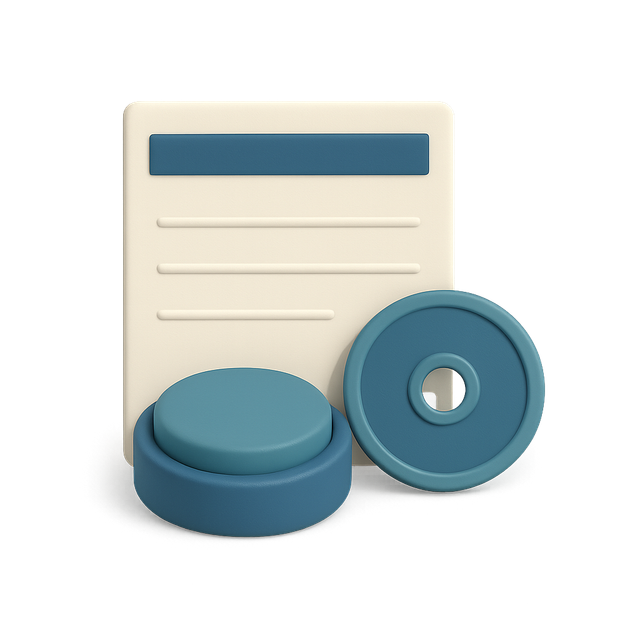
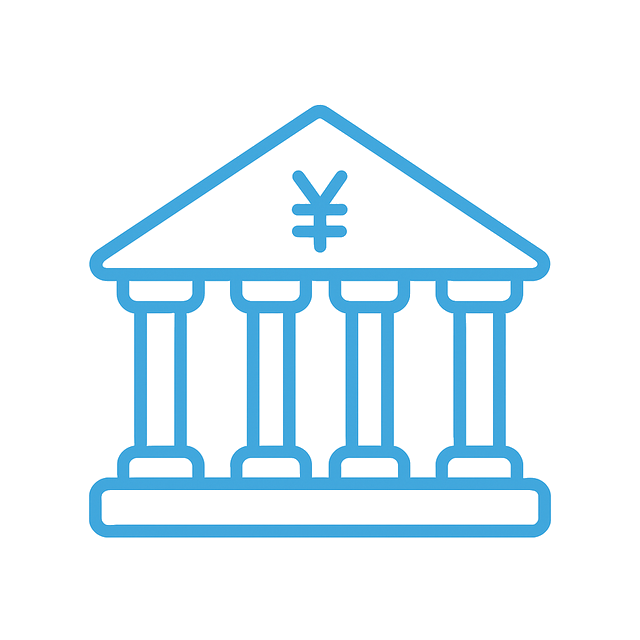
fix(home): match payment card height to the pricing column
Keep the bank-transfer mark mid-size and centered in the leftover space so the two TOP cards align on desktop. Refresh the square icon asset and Atlas media id so the CMS seed stays in sync.

diff --git a/features/home/components/HomePricingSection.tsx b/features/home/components/HomePricingSection.tsx
@@ -29,7 +29,7 @@ export function HomePricingSection({
           <h2 className="text-xl font-bold text-heading md:text-2xl">
             {t(content.heading, lang)}
           </h2>
-          <div className="mt-6 grid flex-1 gap-5 sm:grid-cols-2">
+          <div className="mt-6 grid gap-5 sm:grid-cols-2">
             {courses.map((course) => (
               <div
                 key={course.label.ja}
@@ -59,7 +59,7 @@ export function HomePricingSection({
         </div>
 
         <div className="flex h-full flex-col overflow-hidden rounded-2xl border border-border bg-surface">
-          <div className="px-6 pt-6 sm:px-8 sm:pt-8">
+          <div className="px-6 py-5 sm:px-8 sm:py-6">
             <h2 className="text-xl font-bold text-heading md:text-2xl">
               {t(content.payment.heading, lang)}
             </h2>
@@ -72,23 +72,25 @@ export function HomePricingSection({
           </div>
 
           {content.payment.icon.src ? (
-            <div className="relative mt-6 flex min-h-0 flex-1 flex-col items-center justify-center border-t border-border bg-primary-light px-6 py-8 sm:px-8 sm:py-10">
-              <div
-                aria-hidden
-                className="pointer-events-none absolute inset-0 bg-[radial-gradient(circle_at_50%_38%,var(--color-surface),transparent_64%)]"
-              />
-              <div className="relative flex min-h-40 w-full max-w-[17rem] flex-1 items-center justify-center sm:min-h-44 sm:max-w-[19rem] lg:max-w-[21rem]">
-                <Image
-                  src={content.payment.icon.src}
-                  alt=""
-                  width={400}
-                  height={400}
-                  className="h-full w-full object-contain"
+            <div className="flex flex-1 flex-col items-center justify-center px-6 py-6 sm:px-8">
+              <div className="relative flex flex-col items-center">
+                <div
+                  aria-hidden
+                  className="pointer-events-none absolute inset-0 bg-[radial-gradient(circle_at_50%_38%,var(--color-primary-light),transparent_64%)]"
                 />
+                <div className="relative h-28 w-28 shrink-0 sm:h-32 sm:w-32 lg:h-36 lg:w-36">
+                  <Image
+                    src={content.payment.icon.src}
+                    alt=""
+                    width={400}
+                    height={400}
+                    className="h-full w-full object-contain"
+                  />
+                </div>
+                <p className="relative mt-3 shrink-0 text-center text-sm font-semibold text-heading sm:mt-3.5 sm:text-base">
+                  {t(content.payment.icon.alt, lang)}
+                </p>
               </div>
-              <p className="relative mt-4 shrink-0 text-center text-sm font-semibold text-heading sm:mt-5 sm:text-base">
-                {t(content.payment.icon.alt, lang)}
-              </p>
             </div>
           ) : null}
         </div>
